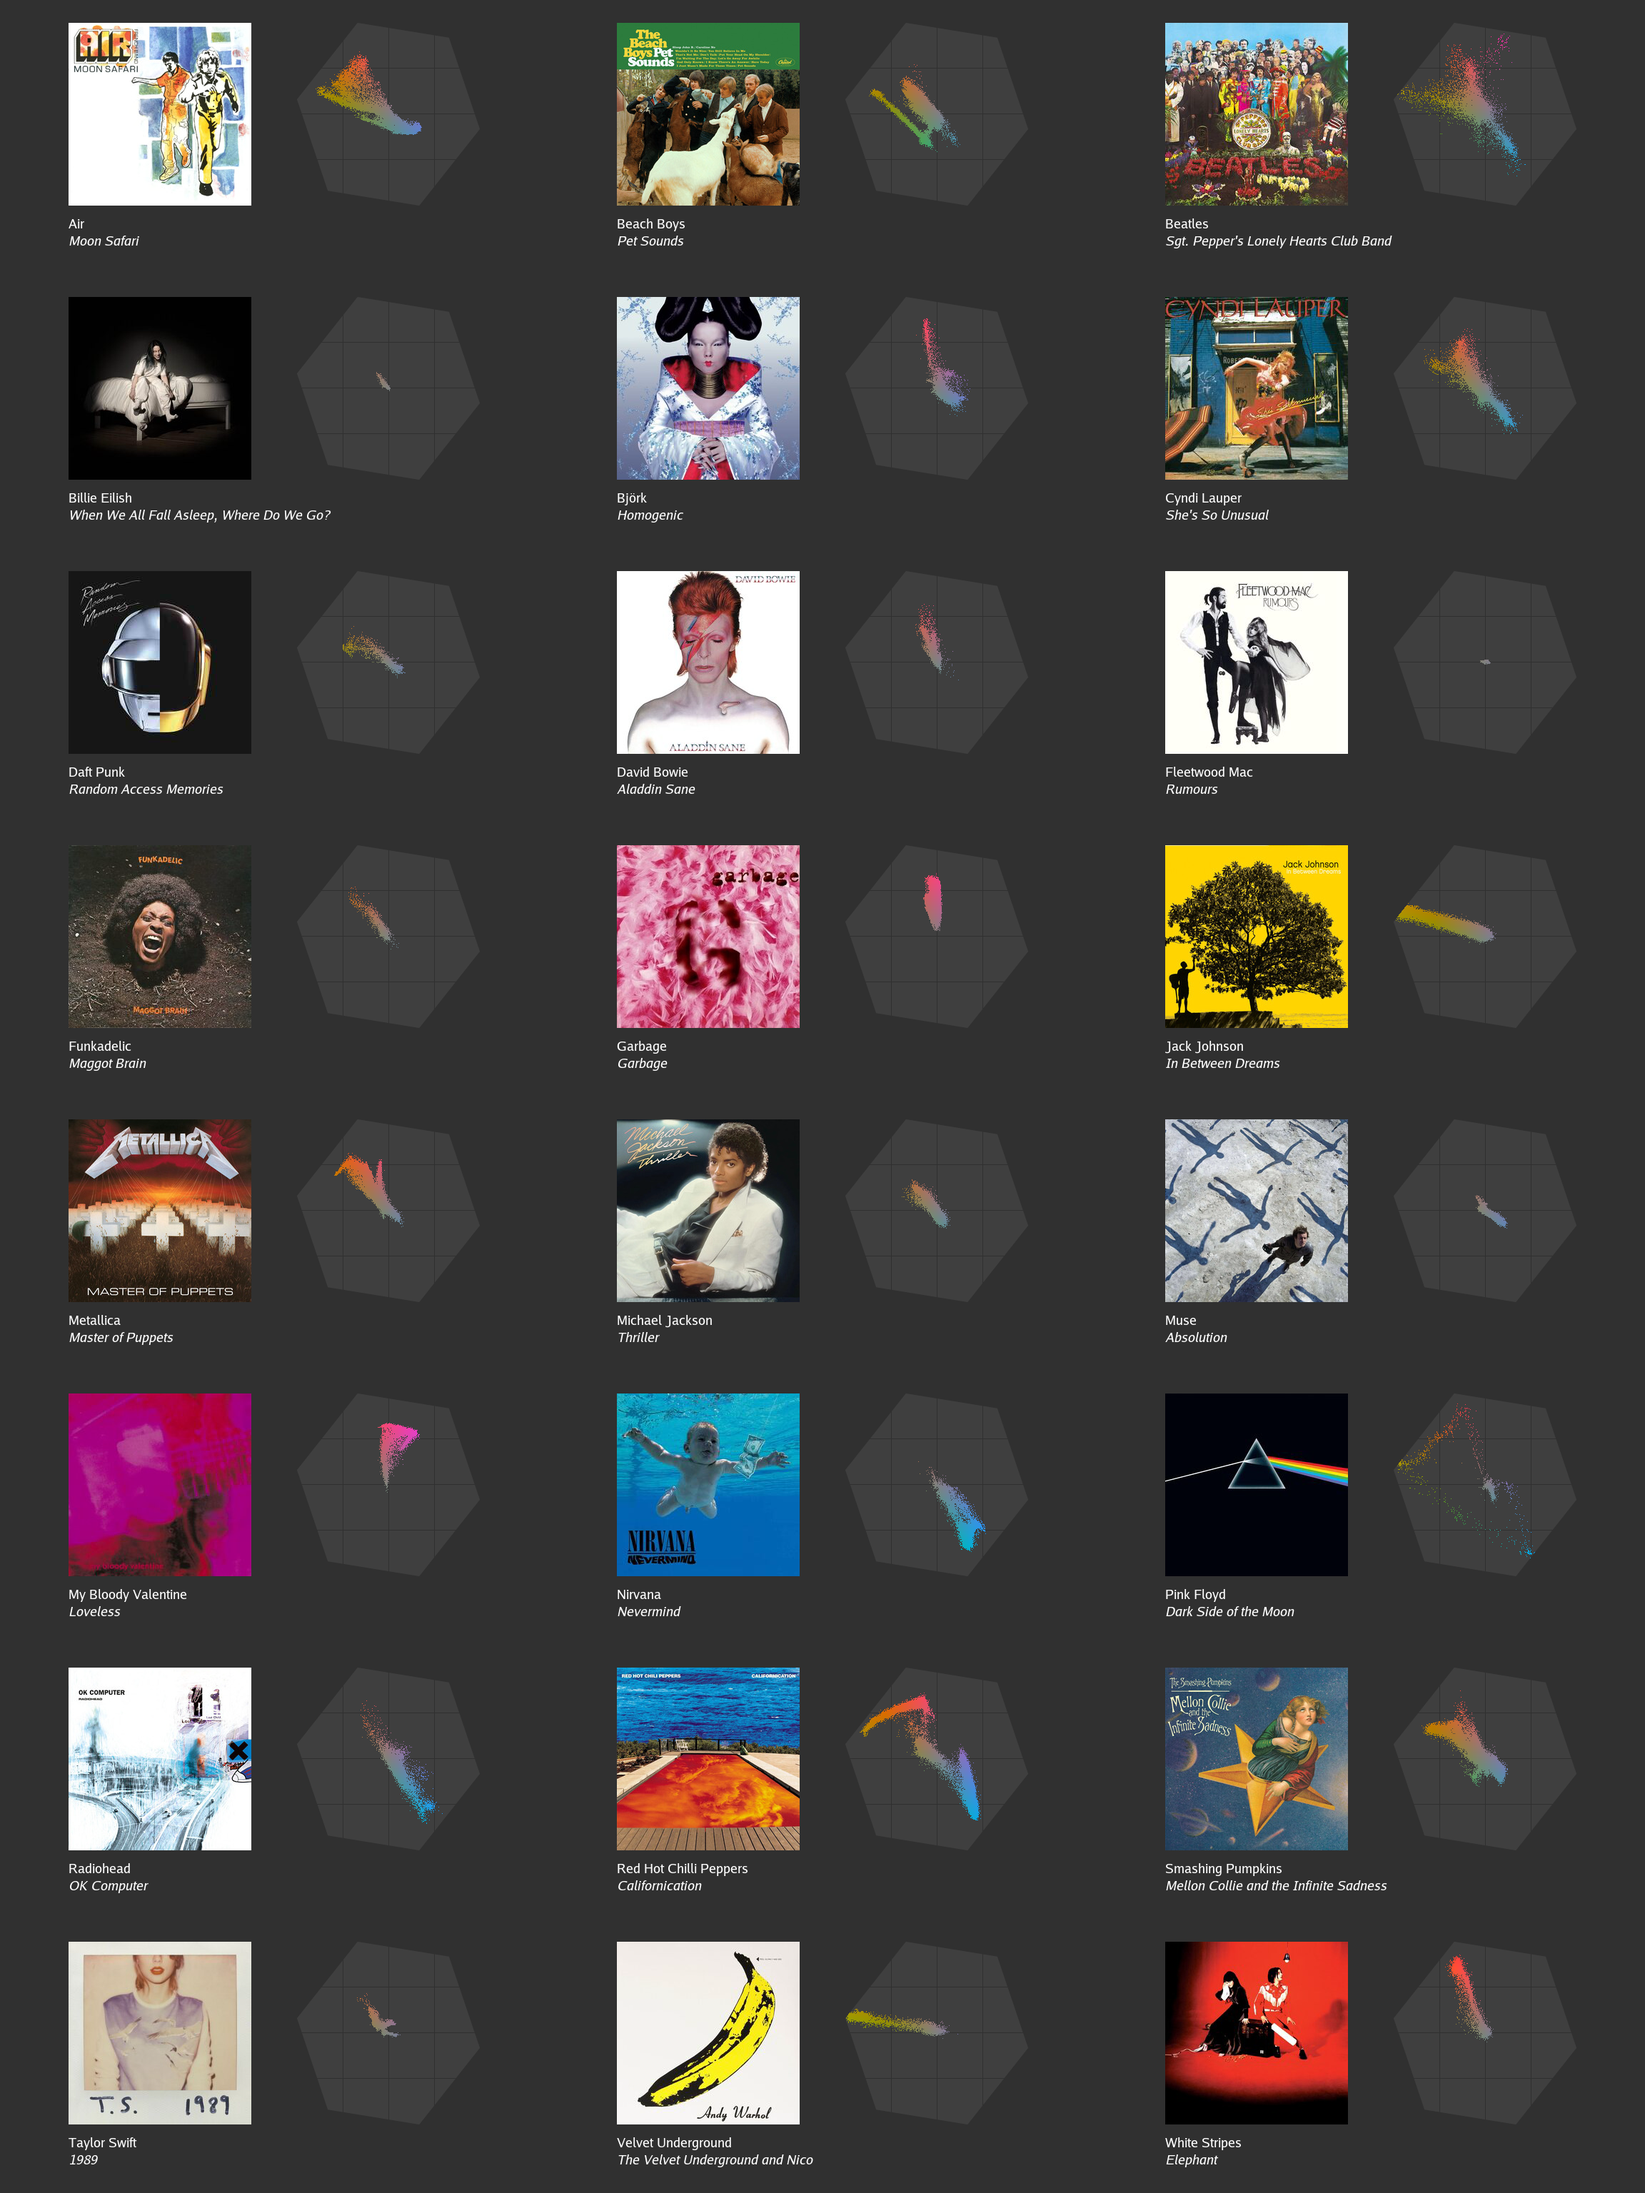
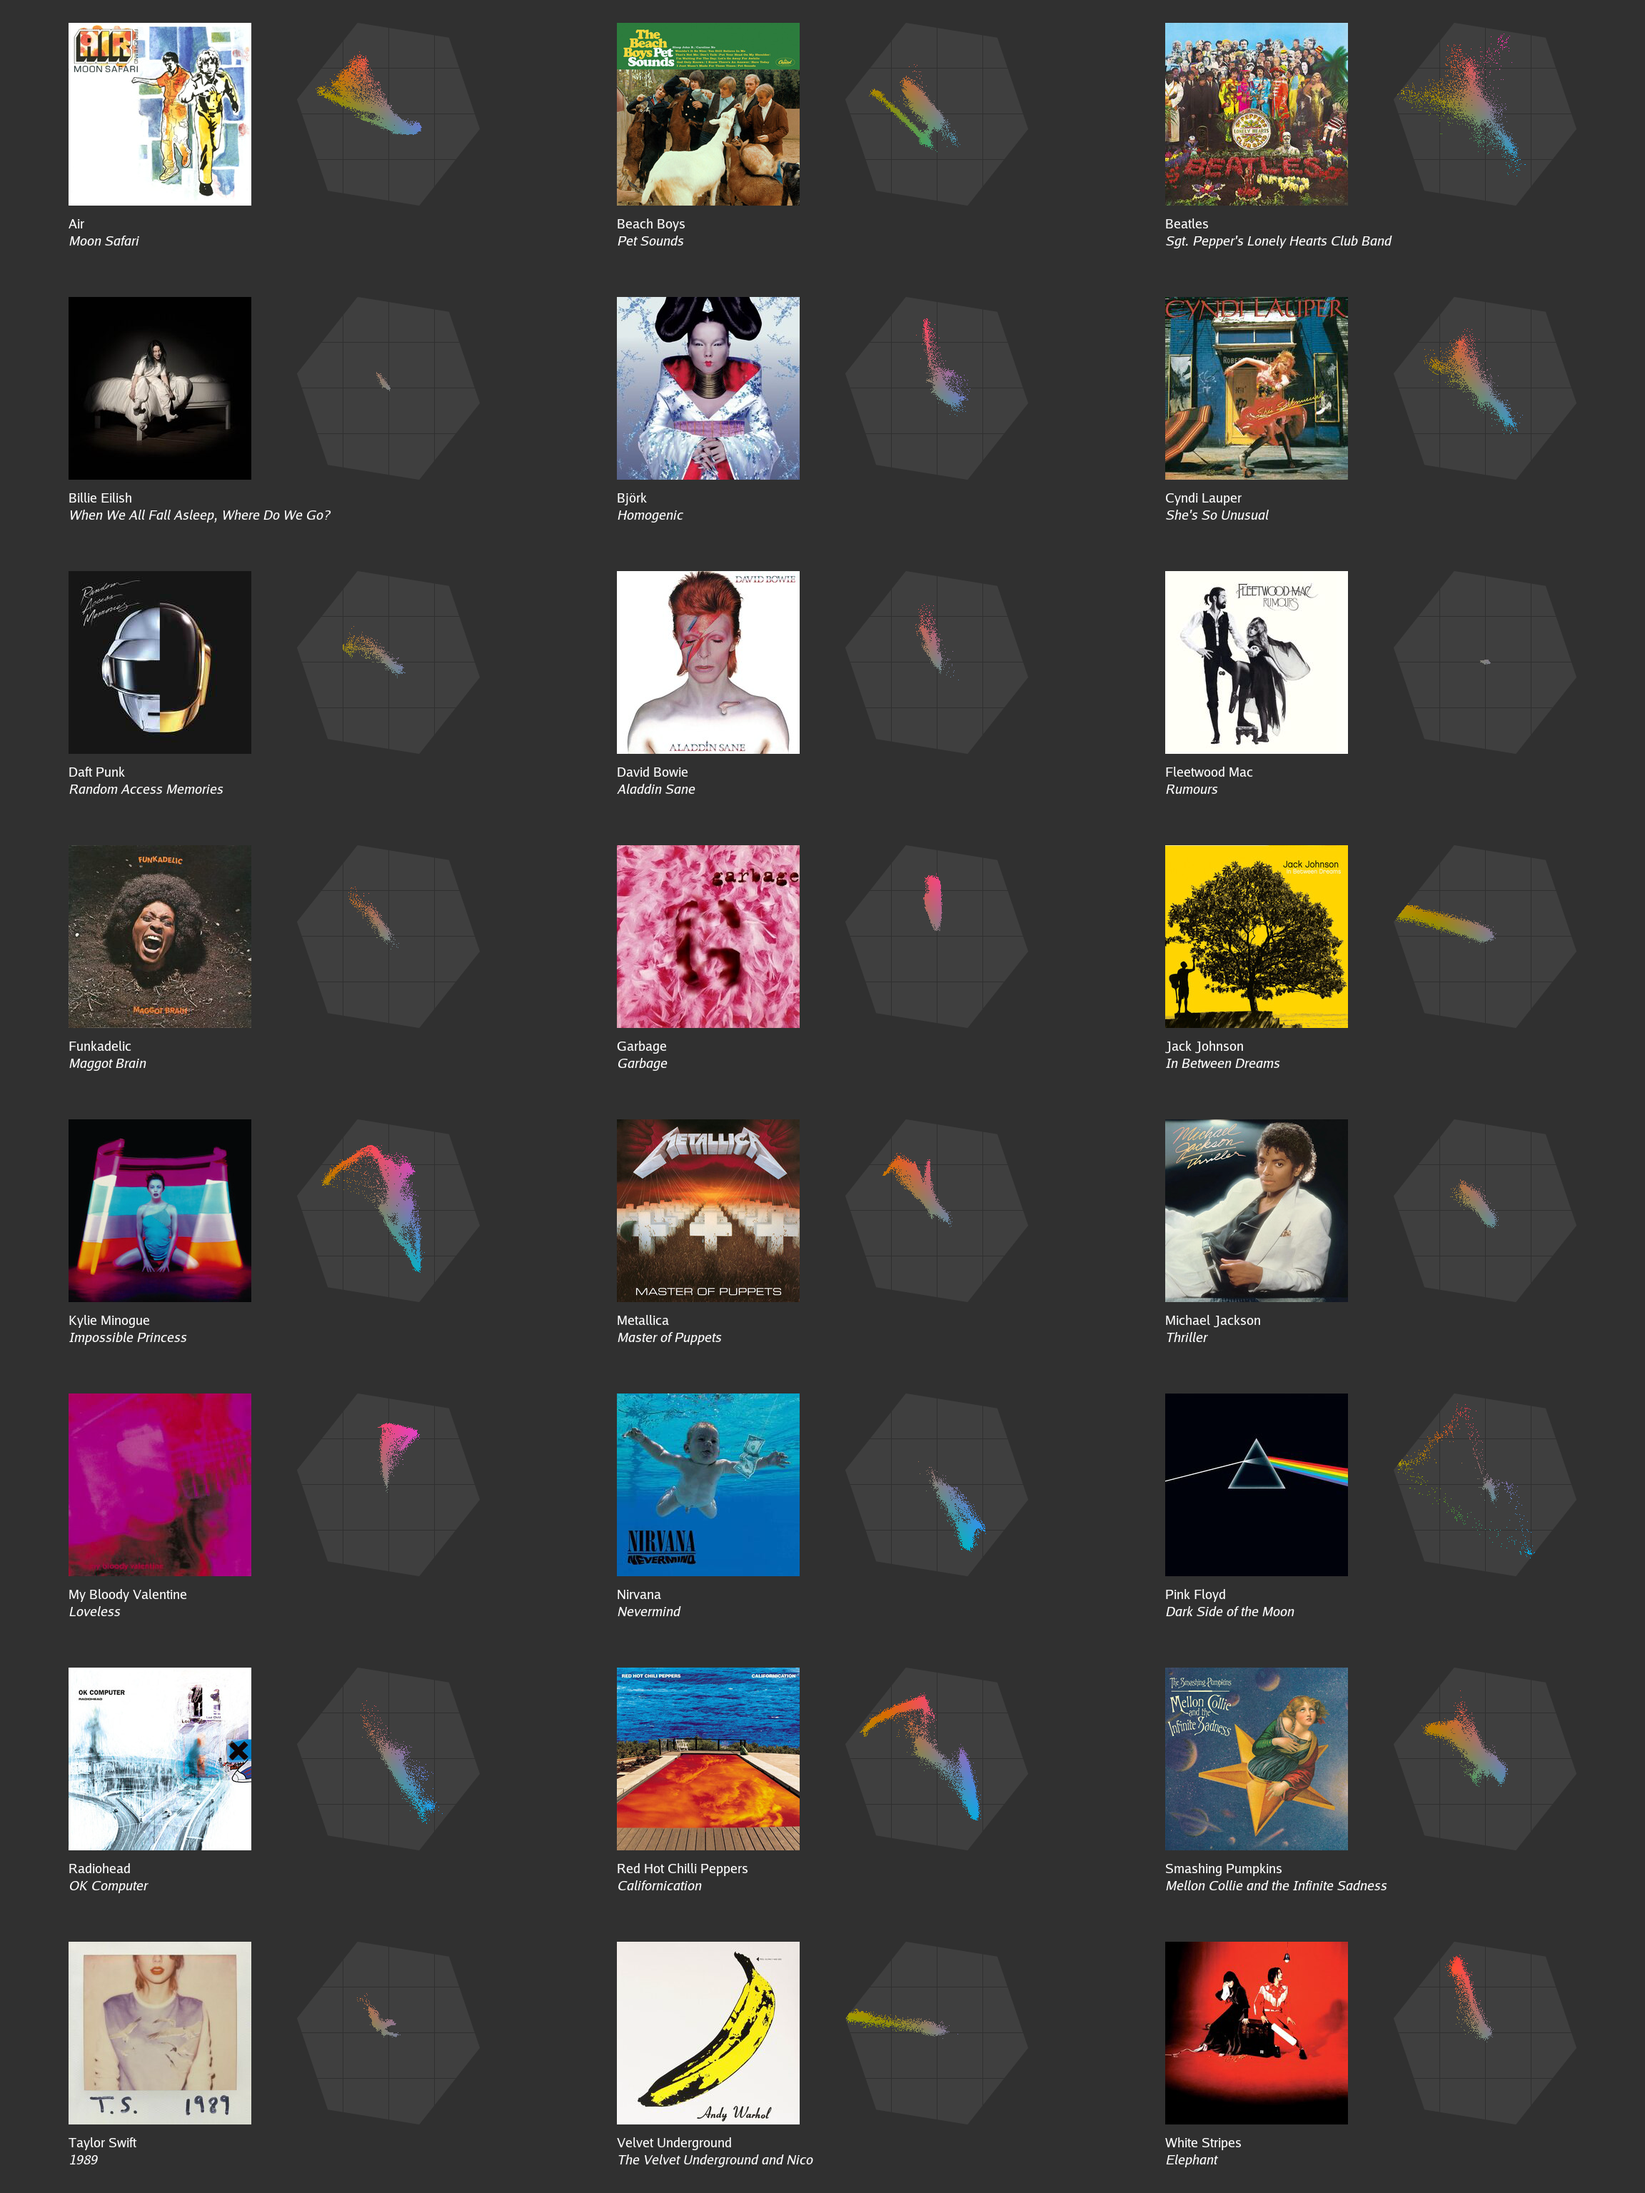
Substitute Kylie Minogue for Muse in the album art

diff --git a/blog/2026/visualizing-ycbcr.go b/blog/2026/visualizing-ycbcr.go
@@ -814,9 +814,9 @@ var albumNames = [...]string{
 	"Funkadelic; Maggot Brain",
 	"Garbage; Garbage",
 	"Jack Johnson; In Between Dreams",
+	"Kylie Minogue; Impossible Princess",
 	"Metallica; Master of Puppets",
 	"Michael Jackson; Thriller",
-	"Muse; Absolution",
 	"My Bloody Valentine; Loveless",
 	"Nirvana; Nevermind",
 	"Pink Floyd; Dark Side of the Moon",

diff --git a/blog/2026/visualizing-ycbcr.md b/blog/2026/visualizing-ycbcr.md
@@ -165,8 +165,9 @@ That Basantotsav.jpg photo is very colorful. Below are the chroma scatterplots
 also more typical?) images: 24 record albums' cover art. My curation choices
 probably give you a good guess as to how old I am.
 
-Of the chroma scatterplots, my favorites are *Homogenic*, *Californication* and
-*Dark Side of the Moon*.
+Of the chroma scatterplots, my favorites are *Homogenic*, *Dark Side of the
+Moon* and *Californication*. _Update on 2026-06-28: I also added *Impossible
+Princess* to the suite._
 
 I also think it's interesting that, to varying extents, most of the *Moon
 Safari*, *Sgt. Pepper's Lonely Hearts Club Band* and *She's So Unusual* chroma
